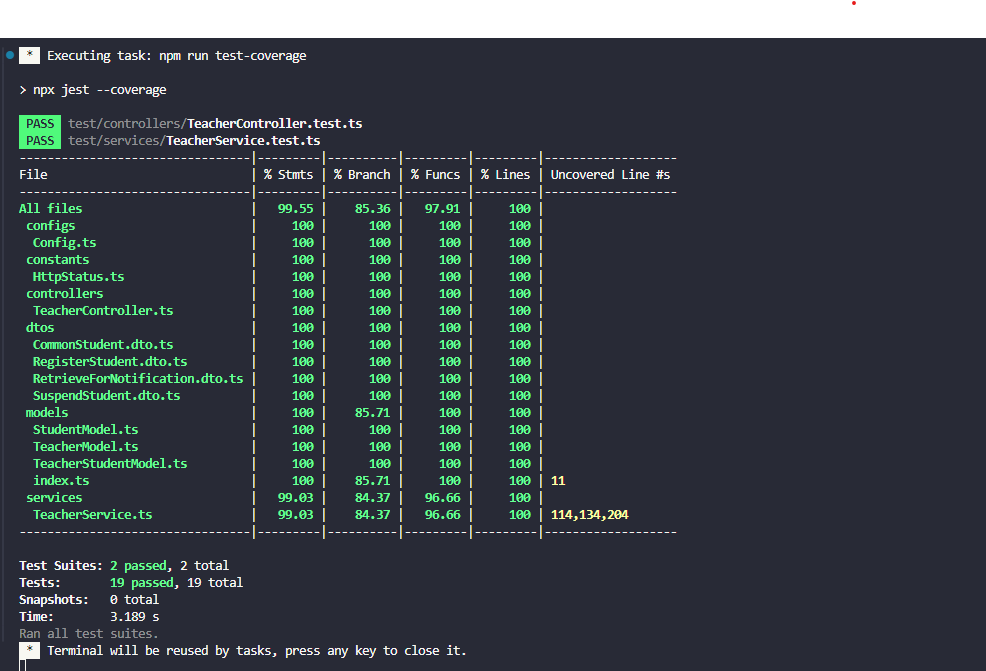
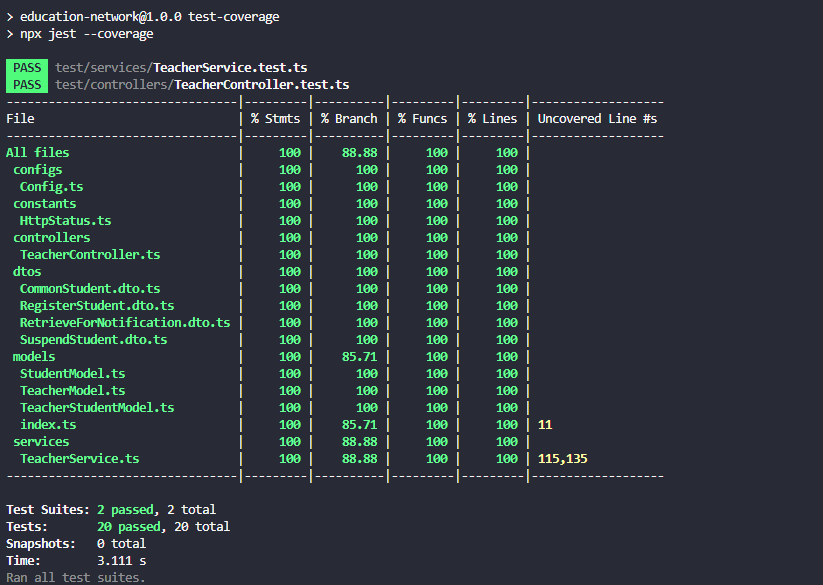
validate student in mentioned email is existed or not

Changed region(s): [[0.0, 0.0, 1.0, 0.8308], [0.0, 0.8308, 0.486, 1.0]]

diff --git a/src/services/TeacherService.ts b/src/services/TeacherService.ts
@@ -183,59 +183,46 @@ export default class TeacherService {
         if (invalidEmails.length > 0) {
             throw new CustomError(HttpStatus.BAD_REQUEST, `Invalid email addresses in mention: ${invalidEmails.join(', ')}`)
         }
-    
 
-        const existingStudents: Student[] = await db.Student.findAll({
-            where: { email: { [Op.in]: mentionedEmails } },
-            attributes: ['email'],
+        // find the teacher by email
+        const teacherStudentRecords: TeacherWithStudents | null = await db.Teacher.findOne({
+            where: { email: teacher },
+            include: [
+                {
+                    model: Student,
+                    attributes: ['id', 'email', 'isSuspended'],
+                    through: { attributes: [] },
+                },
+            ],
         });
+        if (!teacherStudentRecords) {
+            throw new CustomError(HttpStatus.NOT_FOUND, "Teacher not found!")
+        }
 
-        const existingEmails: Set<string> = new Set(existingStudents.map((student: Student) => student.email));
+        //find mentioned student 
+        const existingStudents: StudentDTO[] = await db.Student.findAll({
+            where: { email: { [Op.in]: mentionedEmails } },
+            attributes: ['email', 'isSuspended'],
+        });
+        const existingEmails: Set<string> = new Set(existingStudents.map((student: StudentDTO) => student.email));
 
         const nonExistentEmails: string[] = mentionedEmailsUnique.filter((email: string) => !existingEmails.has(email));
         if (nonExistentEmails.length > 0) {
             throw new CustomError(HttpStatus.NOT_FOUND, `Student(s) not found: ${nonExistentEmails.join(', ')}`);
         }
+        const mentionedStudentEmailWithoutSuspended = existingStudents
+            .filter((student: StudentDTO) => !student.isSuspended)
+            .map((student: StudentDTO) => student.email)
 
-        // find the teacher by email
-        const teacherRecord: Teacher | null = await db.Teacher.findOne({ where: { email: teacher } });
-        if (!teacherRecord) {
-            throw new CustomError(HttpStatus.NOT_FOUND, "Teacher not found!")
-        }
-
-        // find all student under the teacher
-        const teacherStudentRecords: TeacherStudentRes[] = await TeacherStudent.findAll({
-            where: { teacherId: teacherRecord.id },
-            include: [
-                {
-                    model: Student,
-                    attributes: ['email'],
-                },
-            ],
-        });
-
-        // get email of student under the teacher
-        const registeredStudentEmails: string[] = teacherStudentRecords
-            .map((teacherStudent: TeacherStudentRes) => teacherStudent?.Student?.email)
-            .filter((email: string | undefined) => email != undefined);
-
-        // find suspended student 
-        const suspendedStudentEmails: Student[] = await db.Student.findAll({
-            where: {
-                email: {
-                    [Op.in]: [...registeredStudentEmails, ...mentionedEmailsUnique],
-                },
-                isSuspended: 1
-            },
-            attributes: ['email'],
-        });
-
-        const suspendedEmails: string[] = suspendedStudentEmails.map((student: Student) => student.email);
+        // get email of student under the teacher without suspended
+        const registeredStudentEmailsWithoutSuspened: string[] = teacherStudentRecords.Students
+            .filter((student: StudentDTO) => student.email != undefined && !student.isSuspended)
+            .map((student: StudentDTO) => student.email)
 
         // get final result
         const eligibleEmails: Set<string> = new Set([
-            ...registeredStudentEmails.filter((email: string) => !suspendedEmails.includes(email)),
-            ...mentionedEmails.filter((email: string) => !suspendedEmails.includes(email)),
+            ...mentionedStudentEmailWithoutSuspended,
+            ...registeredStudentEmailsWithoutSuspened
         ]);
 
         return { recipients: [...eligibleEmails] };

diff --git a/test/services/TeacherService.test.ts b/test/services/TeacherService.test.ts
@@ -2,6 +2,8 @@ import { HttpStatus } from "../../src/constants/HttpStatus";
 import TeacherService from "../../src/services/TeacherService";
 import { CustomError } from "../../src/utils/CustomError";
 import db from "../../src/models";
+import { Op } from "sequelize";
+import { StudentDTO } from "../../src/dtos/TeacherWithStudents.dto";
 
 describe("TeacherService", () => {
     describe("RegisterStudentService", () => {
@@ -122,7 +124,7 @@ describe("TeacherService", () => {
     });
 
     describe("RetrieveForNotificationStudentService", () => {
-        it("Should throw an error if input invalid", async () => {
+        it("Should throw an error if input invalid teacher", async () => {
             const body = { teacher: "invalidEmail@something", notification: "Hello everyone" };
 
             await expect(TeacherService.retrieveForNotificationStudent(body)).rejects.toThrowError(
@@ -139,8 +141,13 @@ describe("TeacherService", () => {
         });
 
         it("Should throw an error if teacher not found", async () => {
-            const body = { teacher: "notExistTeacher@school.com", notification: "Hello everyone" };
+            const body = { teacher: "teacher@school.com", notification: "Hello everyone" };
+            const mockFindAllStudent: StudentDTO[] = [
+                { id: 1, email: "student1@school.com", isSuspended: false },
+                { id: 2, email: "student2@school.com", isSuspended: false }
+            ]
 
+            jest.spyOn(db.Student, "findAll").mockResolvedValue(mockFindAllStudent);
             jest.spyOn(db.Teacher, "findOne").mockResolvedValue(null);
 
             await expect(TeacherService.retrieveForNotificationStudent(body)).rejects.toThrowError(
@@ -148,12 +155,34 @@ describe("TeacherService", () => {
             );
         });
 
+        it("Should throw an error if mentioned student not found", async () => {
+            const body = { teacher: "teacher@school.com", notification: "Hello Hello @student1@school.com" };
+
+            jest.spyOn(db.Student, "findAll").mockResolvedValue([]);
+            jest.spyOn(db.Teacher, "findOne").mockResolvedValue({ id: 1, email: "teacher@school.com" });
+
+            await expect(TeacherService.retrieveForNotificationStudent(body)).rejects.toThrowError(
+                new CustomError(HttpStatus.BAD_REQUEST, "Student(s) not found: student1@school.com")
+            );
+        });
+
+
         it("Should return recipients correctly", async () => {
             const body = { teacher: "teacher@school.com", notification: "Hello @student1@school.com @student2@school.com" };
+            const mockFindAllStudent: StudentDTO[] = [
+                { id: 1, email: "student1@school.com", isSuspended: false },
+                { id: 2, email: "student2@school.com", isSuspended: false }
+            ]
+            const mockTeacherWithStudents = {
+                id: 1, email: "teacher@school.com",
+                Students:
+                    [
+                        { id: 1, email: "student1@school.com", isSuspended: false }
+                    ]
+            }
 
-            jest.spyOn(db.Teacher, "findOne").mockResolvedValue({ id: 1, email: "teacher@school.com" });
-            jest.spyOn(db.TeacherStudent, "findAll").mockResolvedValue([{ teacherId: 1, studentId: 1, Student: { id: 1, email: "student1@school.com" } }]);
-            jest.spyOn(db.Student, "findAll").mockResolvedValue([]);
+            jest.spyOn(db.Student, "findAll").mockResolvedValue(mockFindAllStudent);
+            jest.spyOn(db.Teacher, "findOne").mockResolvedValue(mockTeacherWithStudents);
 
             const response = await TeacherService.retrieveForNotificationStudent(body);
             expect(response.recipients).toEqual(["student1@school.com", "student2@school.com"]);

diff --git a/src/dtos/TeacherWithStudents.dto.ts b/src/dtos/TeacherWithStudents.dto.ts
@@ -1,18 +1,18 @@
 export interface TeacherWithStudents {
-    id?: number;
-    email?: string;
-    Students?: StudentDTO[];
+    id: number;
+    email: string;
+    Students: StudentDTO[];
 }
 
 export interface StudentDTO {
-    id?: number;
-    email?: string;
-    isSuspended?: boolean;
+    id: number;
+    email: string;
+    isSuspended: boolean;
 }
 
 export interface TeacherDTO {
-    id?: number;
-    email?: string;
+    id: number;
+    email: string;
 }
 
 export interface TeacherStudentRes {
